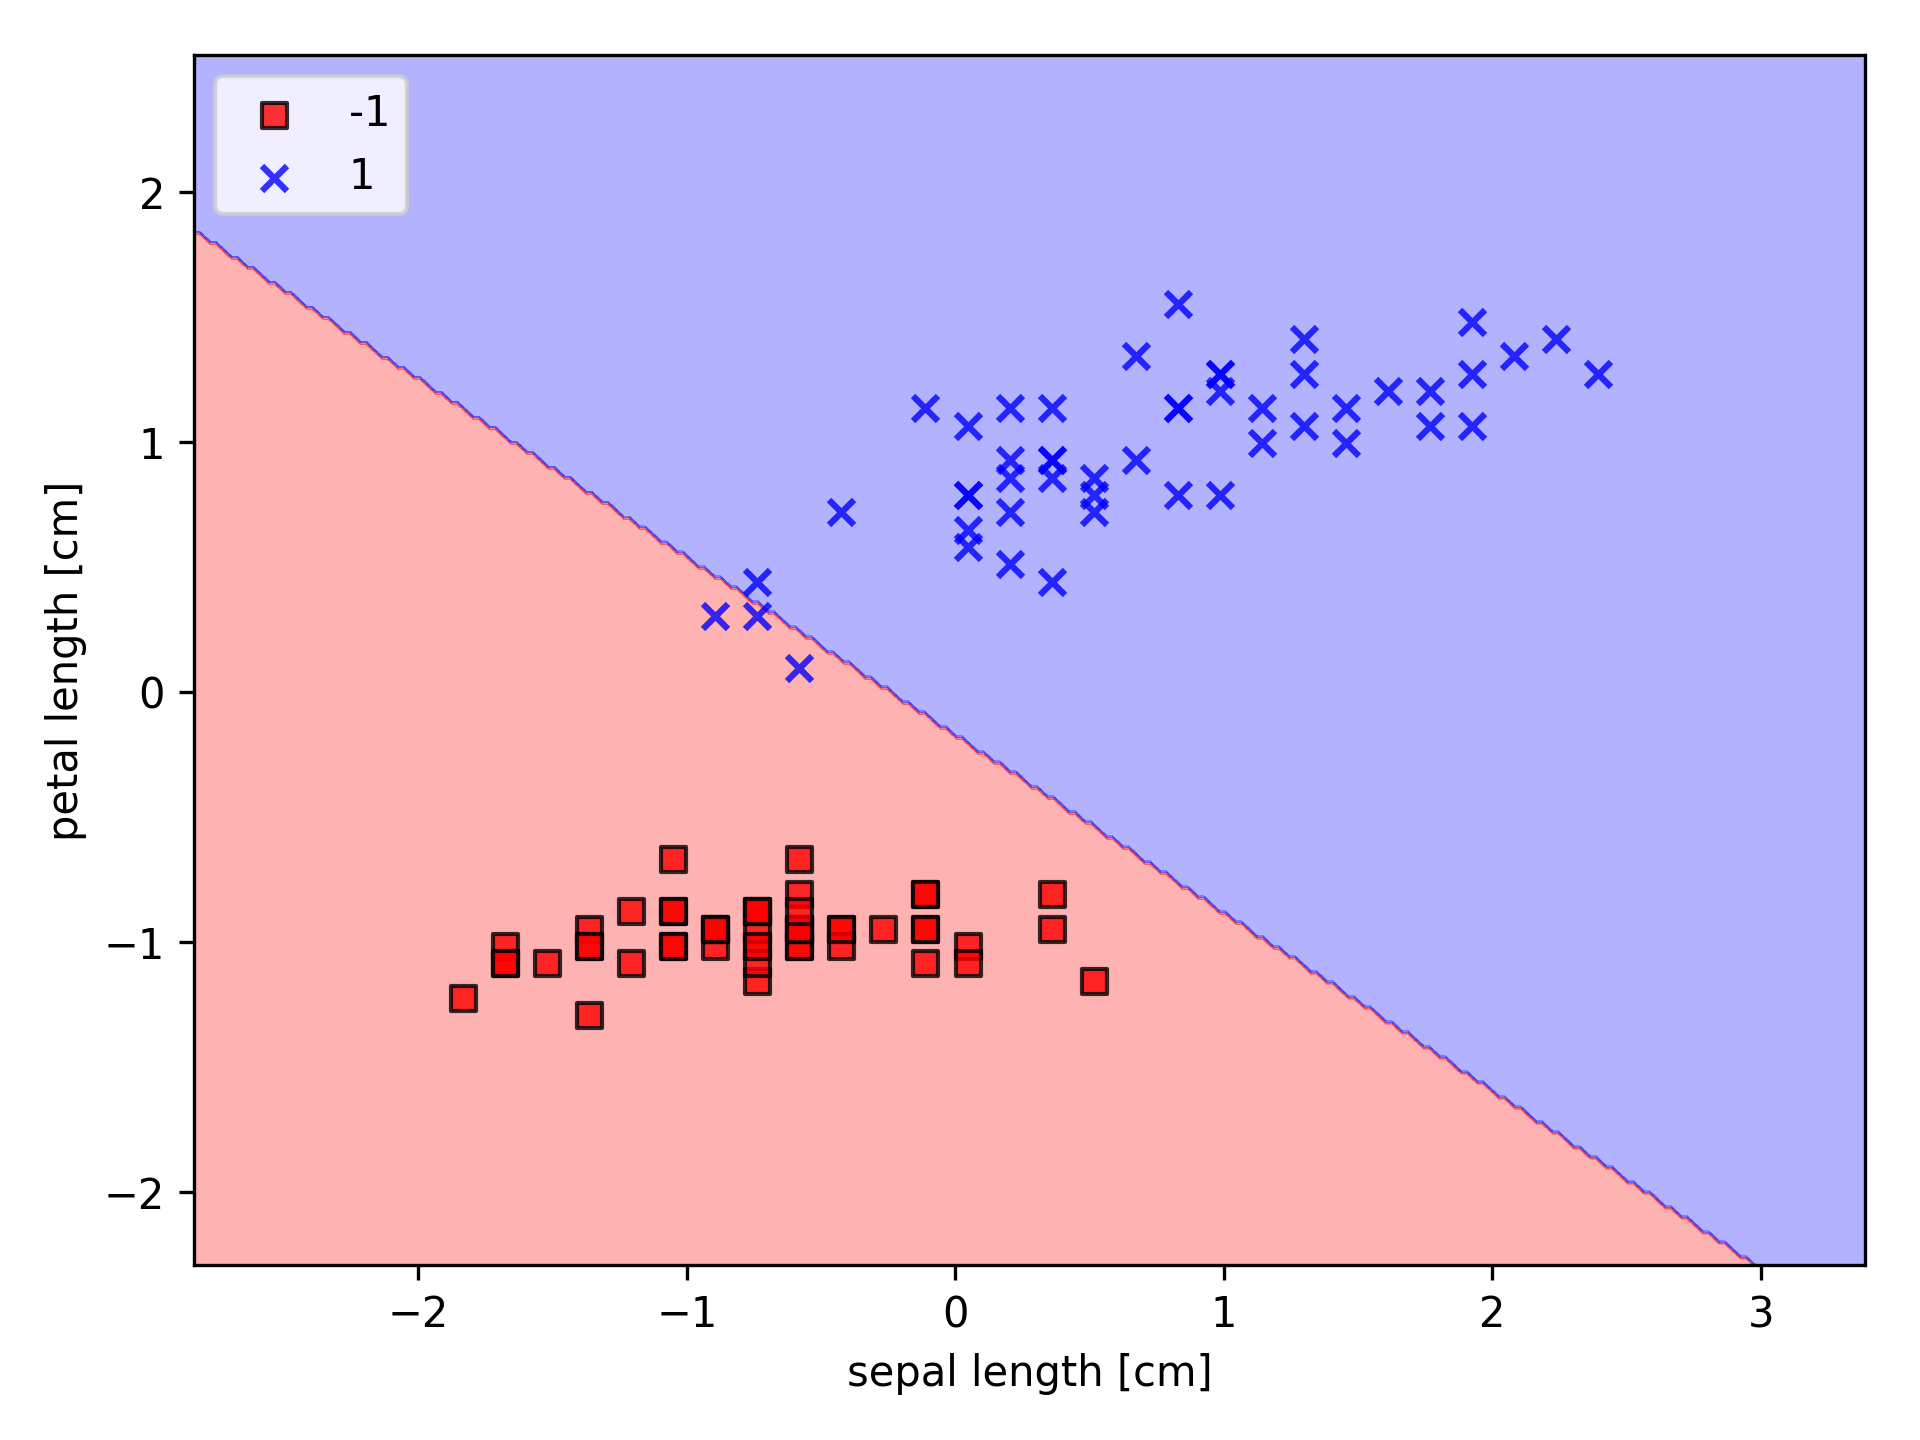
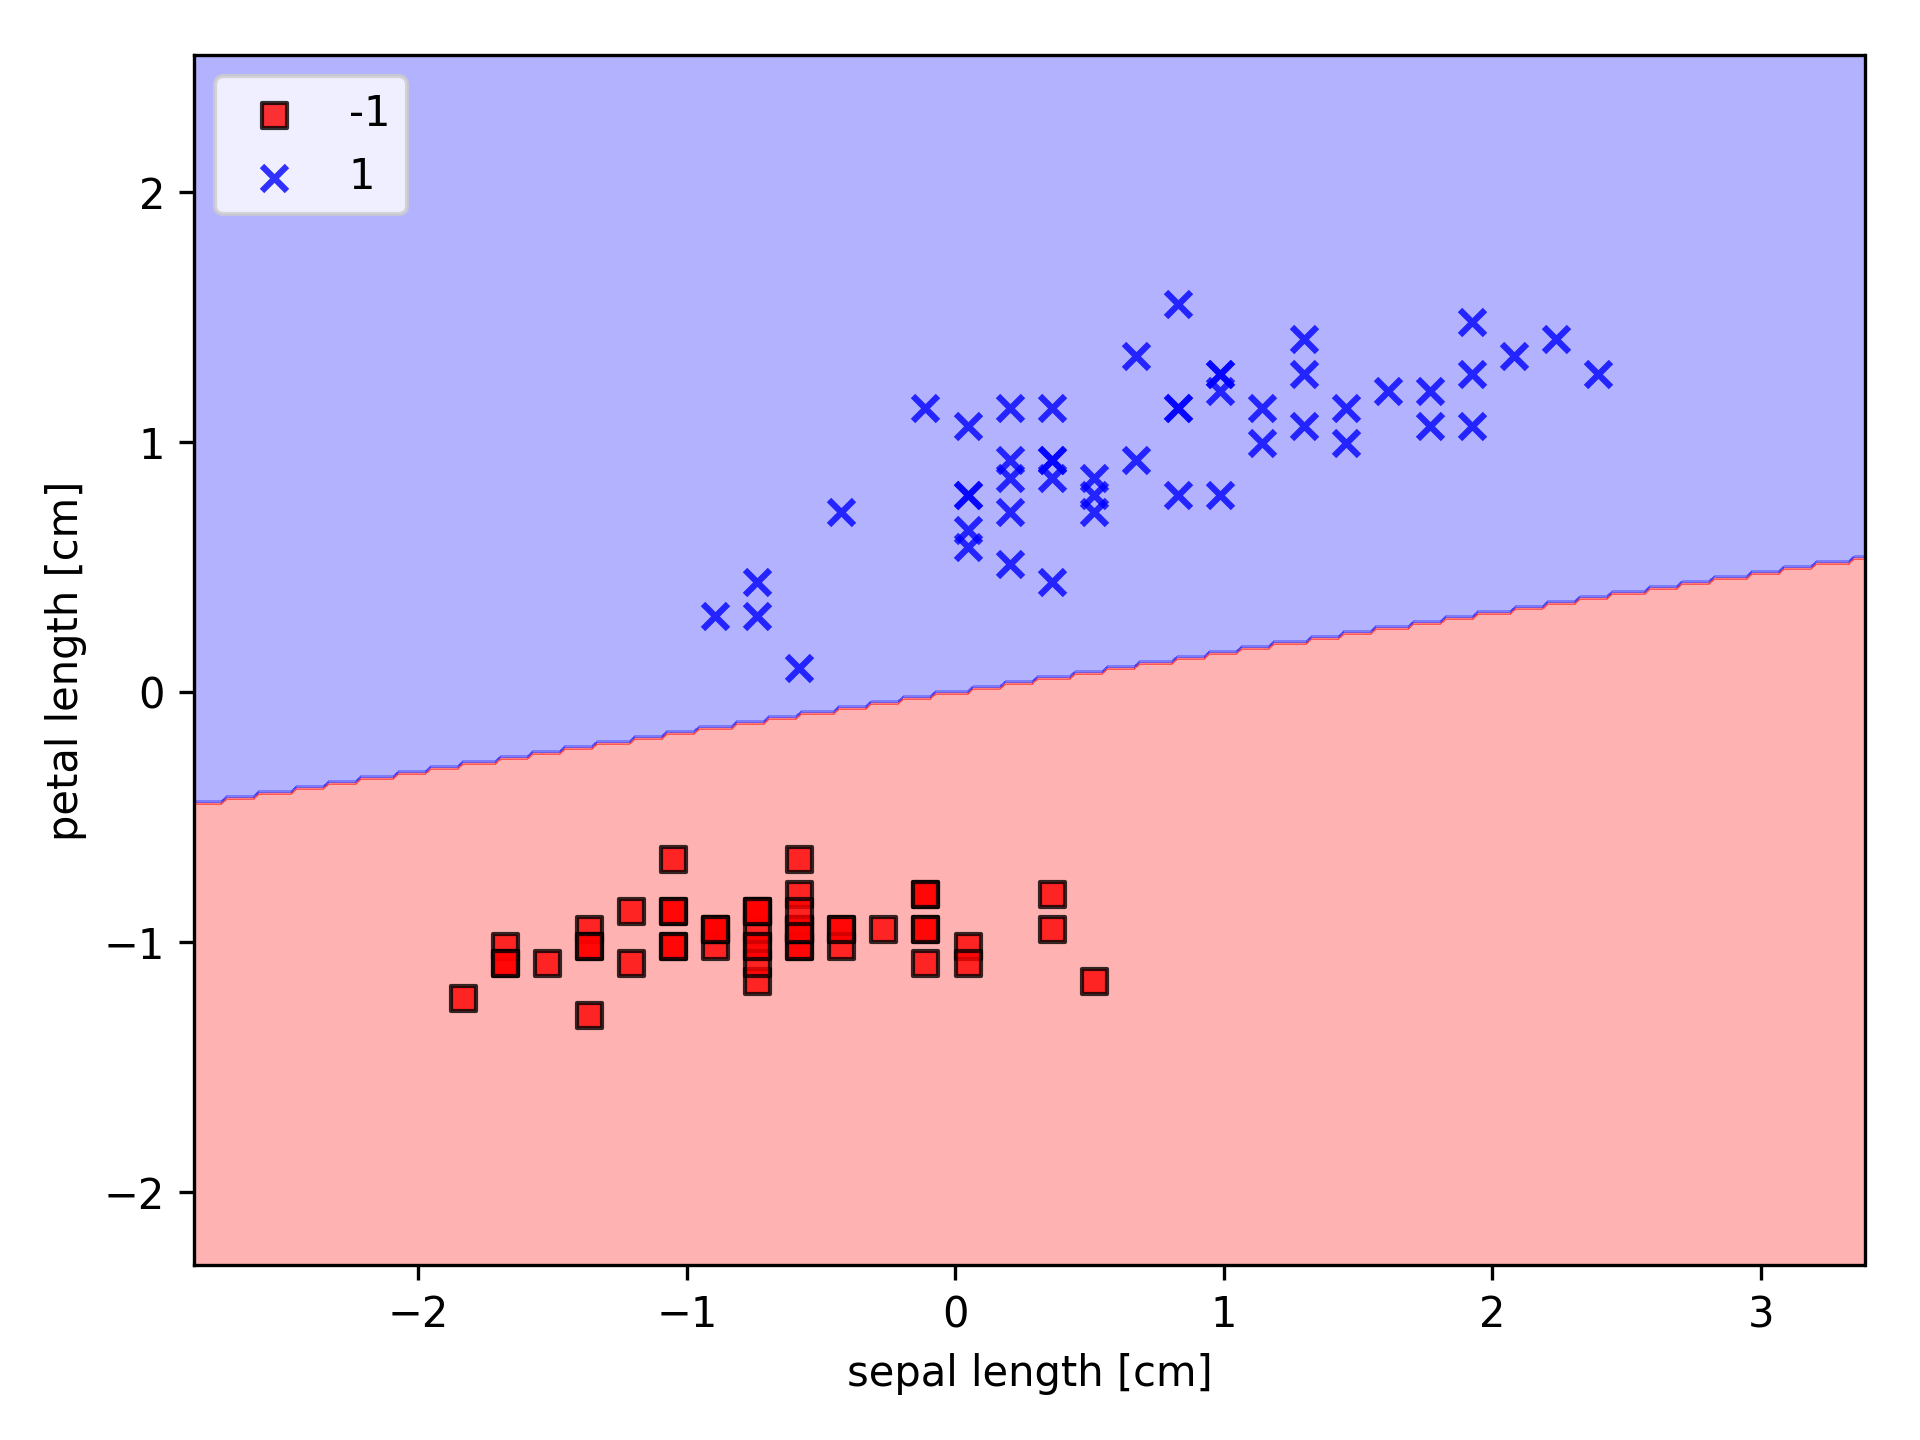
Improved test based on learning rate

Changed region(s): [[0.0938, 0.1562, 0.9688, 0.875]]

diff --git a/tests/adaline/adaline_test.py b/tests/adaline/adaline_test.py
@@ -24,7 +24,7 @@ class AdalineTest(unittest.TestCase):
         Plotter.plot_data_set(x, '../../resources/images/Adaline-Training-Set.png')
 
         # train the first  with bigger learning ratio
-        adaline1 = AdalineGD(learning_rate=0.1, num_epochs=30)
+        adaline1 = AdalineGD(learning_rate=0.01, num_epochs=30)
         adaline1.train(x, y)
 
         # train the second adaline model with smaller learning ration
@@ -80,7 +80,7 @@ class AdalineTest(unittest.TestCase):
         Plotter.plot_data_set(x_std, '../../resources/images/Adaline-Standardized-Training-Set.png')
 
         # train adaline on standardized features with a small number of epochs
-        adaline = AdalineGD(learning_rate=0.0001, num_epochs=10)
+        adaline = AdalineGD(learning_rate=0.01, num_epochs=10)
         adaline.train(x_std, y)
 
         # plot learning curve
